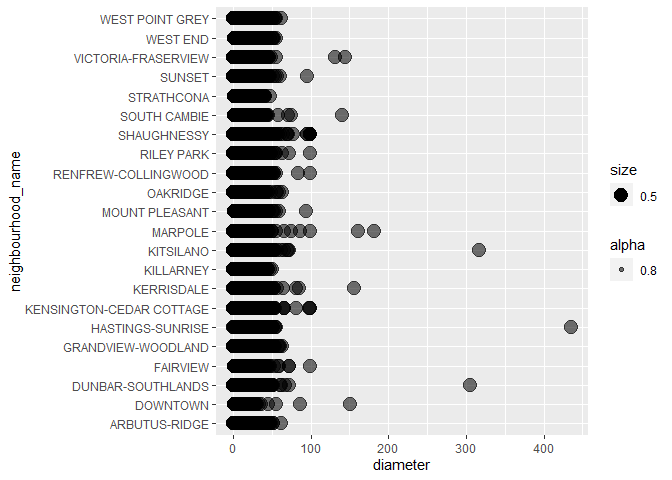
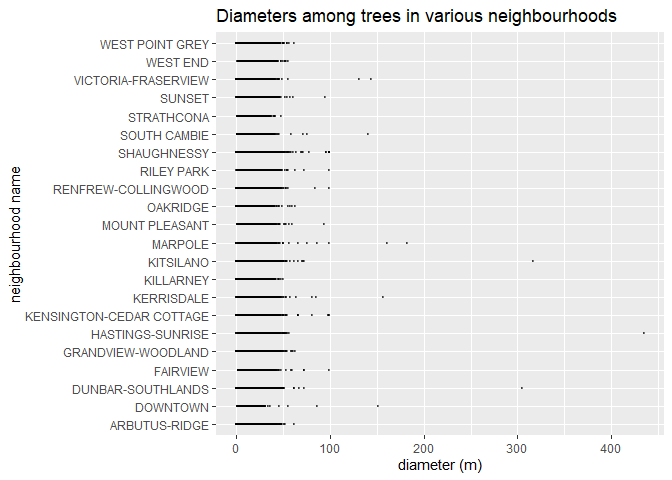
Final Edit

diff --git a/mda-nmhowes03.md b/mda-nmhowes03.md
@@ -211,7 +211,7 @@ typeof (vancouver_trees)
     ## [1] "list"
 
 ``` r
-# I now know the dataset is a list
+#I now know the dataset is a list
 ```
 
 ``` r
@@ -243,11 +243,11 @@ glimpse (vancouver_trees)
     ## $ latitude           <dbl> 49.21776, 49.21776, 49.23938, 49.23469, 49.23894, 4…
 
 ``` r
-#there are 146,611 rows and 20 columns
+#There are 146,611 rows and 20 columns
 ```
 
 ``` r
-#I want to know how many species there are
+#I want to know how many trees there are with a diameter above 5.00
 print (filter (vancouver_trees, diameter > 5.00))
 ```
 
@@ -272,7 +272,7 @@ print (filter (vancouver_trees, diameter > 5.00))
     ## #   latitude <dbl>
 
 ``` r
-#there are 95, 692 trees that have a diameter larger than 5.00
+#There are 95, 692 trees that have a diameter larger than 5.00
 ```
 
 \#exploring cancer_sample data set
@@ -296,7 +296,7 @@ typeof (cancer_sample)
     ## [1] "list"
 
 ``` r
-# I now know the dataset is a list
+#I now know the dataset is a list
 ```
 
 ``` r
@@ -340,11 +340,11 @@ glimpse (cancer_sample)
     ## $ fractal_dimension_worst <dbl> 0.11890, 0.08902, 0.08758, 0.17300, 0.07678, 0…
 
 ``` r
-#there are 569 rows and 32 columns```
+#There are 569 rows and 32 columns
 ```
 
 ``` r
-#I want to know how many patients have an area mean above 1000
+#I want to know how many patients have a tumor area mean above 1000
 print (filter (cancer_sample, area_mean > 1000))
 ```
 
@@ -370,7 +370,7 @@ print (filter (cancer_sample, area_mean > 1000))
     ## #   symmetry_se <dbl>, fractal_dimension_se <dbl>, radius_worst <dbl>, …
 
 ``` r
-#there are 92 patients with an area mean above 1000
+#There are 92 patients with a tumor area mean above 1000
 ```
 
 \#exploring building_permits data set
@@ -394,7 +394,7 @@ typeof (building_permits)
     ## [1] "list"
 
 ``` r
-# I now know the dataset is a list
+#I now know the dataset is a list
 ```
 
 ``` r
@@ -420,7 +420,7 @@ glimpse (building_permits)
     ## $ bi_id                       <dbl> 524, 535, 539, 541, 543, 546, 547, 548, 54…
 
 ``` r
-#there are 20,680 rows and 14 columns
+#There are 20,680 rows and 14 columns
 ```
 
 ``` r
@@ -448,7 +448,7 @@ print (filter (building_permits, year > 2017))
     ## #   year <dbl>, bi_id <dbl>
 
 ``` r
-#there are 13,946 building permits made after 2017
+#There are 13,946 building permits made after 2017
 ```
 
 \#exploring apt_buildings data set
@@ -472,7 +472,7 @@ typeof (apt_buildings)
     ## [1] "list"
 
 ``` r
-# I now know the dataset is a list
+#I now know the dataset is a list
 ```
 
 ``` r
@@ -521,7 +521,7 @@ glimpse (apt_buildings)
     ## $ no_barrier_free_accessible_units <dbl> 2, 0, 0, 42, 0, NA, 14, 0, 0, 1, 25, …
 
 ``` r
-#there are 3,455 rows and 37 columns
+#There are 3,455 rows and 37 columns
 ```
 
 ``` r
@@ -563,10 +563,11 @@ to choose this one? Briefly explain your choice below.
 <!-------------------------- Start your work below ---------------------------->
 
 \#I chose the Vancouver trees dataset, personally this dataset was the
-most interesting to me as I liked to investigate the species and
-dimentions of the trees. It was also be interesting to look at the
-relationships between the age and diameter, if it is located on the
-street and it’s height.
+most interesting to me as I would like to investigate the relationship
+between tree species, location and dimention of the trees. It was also
+be interesting to look at trees that I could potentially see in my
+neighborhood and if they could ge easy to spot based ont ehir location
+and size.
 
 <!----------------------------------------------------------------------------->
 
@@ -579,9 +580,10 @@ dataset. Note it down below.
 
 <!-------------------------- Start your work below ---------------------------->
 
-\#My end goal is looking at the relationship between the tree species in
+\#I would want to look at the relationship between the tree species in
 relation to the diameter, height range and where it can commonly be
-found to find some of the biggest and most common species in Vancouver.
+found to ultimately find the biggest and most common tree species in
+Kitsilano.
 
 # Important note
 
@@ -647,22 +649,38 @@ sufficient comments for a reader to understand your reasoning and code.
 
 <!-------------------------- Start your work below ---------------------------->
 
-\#First I wanted to “Plot the distribution of a numeric variable” for
-this task I want to look at diameter
+\#First I wanted to “Plot the distribution of a numeric variable (#1)”
+for this task I want to look at diameter and what the most common
+diameter is across all the trees.
 
 ``` r
-print (ggplot( vancouver_trees, aes(x = diameter)) + geom_histogram(binwidth=5.5))
+ggplot(vancouver_trees, aes(x = diameter)) + 
+  geom_histogram(binwidth=5.5) +
+  labs(title= "Tree Diameter", x = "diameter (m)", y = "number of trees") %>% 
+  print()
 ```
+
+    ## $x
+    ## [1] "diameter (m)"
+    ## 
+    ## $y
+    ## [1] "number of trees"
+    ## 
+    ## $title
+    ## [1] "Tree Diameter"
+    ## 
+    ## attr(,"class")
+    ## [1] "labels"
 
 ![](mda-nmhowes03_files/figure-gfm/unnamed-chunk-19-1.png)<!-- -->
 
 ``` r
-#this shows me that most of the diameters are under 50 with majority being around 10.So if I needed to cut some trees I could filter for diameters just under 25 as that is where I would find the majority of them. For this plot I used the diameter for the x axis to view the counts in a histogram.
+#This shows me that most of the diameters are under 50 with majority being around 10.So if I needed to cut some trees I could filter for diameters just under 25 as that is where I would find the majority of them. For this plot I used the diameter for the x axis to view the counts in a histogram using ggplot. 
 ```
 
 \#I also want to look at trees in my own neighbourhood to see what
 tree’s I could look at during an everyday walk (Filter observations in
-your data according to your own criteria)
+your data according to your own criteria \#5)
 
 ``` r
 print (filter (vancouver_trees, neighbourhood_name == "KITSILANO"))
@@ -689,43 +707,101 @@ print (filter (vancouver_trees, neighbourhood_name == "KITSILANO"))
     ## #   latitude <dbl>
 
 ``` r
-#this shows me that there are 8115 documented trees in the kitsilano neighbourhood that I can walk to and see as the filter function helped me cater my search to just trees near my house. 
+#This shows me that there are 8115 documented trees in the kitsilano neighbourhood that I can walk to and see as the filter function helped me cater my search to just trees near my house. 
+
+vancouver_trees %>%
+  group_by(neighbourhood_name = "KITSILANO") %>%
+    top_n(1, species_name)
+```
+
+    ## # A tibble: 1,613 × 20
+    ## # Groups:   neighbourhood_name [1]
+    ##    tree_id civic_number std_street       genus_name species_name cultivar_name
+    ##      <dbl>        <dbl> <chr>            <chr>      <chr>        <chr>        
+    ##  1  156588         2306 KITCHENER ST     MALUS      ZUMI         CALOCARPA    
+    ##  2  157159         4089 SELKIRK ST       MALUS      ZUMI         CALOCARPA    
+    ##  3  157816          515 SALSBURY DRIVE   MALUS      ZUMI         CALOCARPA    
+    ##  4  157818          520 SALSBURY DRIVE   MALUS      ZUMI         CALOCARPA    
+    ##  5  158748         1037 W KING EDWARD AV MALUS      ZUMI         CALOCARPA    
+    ##  6  158750         1063 W KING EDWARD AV MALUS      ZUMI         CALOCARPA    
+    ##  7  158751         4050 OSLER ST         MALUS      ZUMI         CALOCARPA    
+    ##  8  159644         3793 W 18TH AV        MALUS      ZUMI         CALOCARPA    
+    ##  9  159645         6049 DUNBAR ST        MALUS      ZUMI         CALOCARPA    
+    ## 10  159698         1808 E 2ND AV         MALUS      ZUMI         CALOCARPA    
+    ## # ℹ 1,603 more rows
+    ## # ℹ 14 more variables: common_name <chr>, assigned <chr>, root_barrier <chr>,
+    ## #   plant_area <chr>, on_street_block <dbl>, on_street <chr>,
+    ## #   neighbourhood_name <chr>, street_side_name <chr>, height_range_id <dbl>,
+    ## #   diameter <dbl>, curb <chr>, date_planted <date>, longitude <dbl>,
+    ## #   latitude <dbl>
+
+``` r
+#I also wanted to know the most common species located in Kitsilano so I used the top_n function and found the most common species to be "Zumi".
 ```
 
 \#I wanted to addtionally look at the relationship between 2 variables
 in a plot being the diameter and neighbourhood to get a sense of where
-the largest trees were
+the widest trees were (#4)
 
 ``` r
 ggplot(vancouver_trees, aes(x = diameter, y = neighbourhood_name)) +
-     geom_point(aes(size = 0.5, alpha = 0.8))
+     geom_point(size = 0.5, alpha = 0.5) +
+    labs(title= "Diameters among trees in various neighbourhoods", x = "diameter (m)", y = "neighbourhood name") %>% 
+  print()
 ```
+
+    ## $x
+    ## [1] "diameter (m)"
+    ## 
+    ## $y
+    ## [1] "neighbourhood name"
+    ## 
+    ## $title
+    ## [1] "Diameters among trees in various neighbourhoods"
+    ## 
+    ## attr(,"class")
+    ## [1] "labels"
 
 ![](mda-nmhowes03_files/figure-gfm/unnamed-chunk-21-1.png)<!-- -->
 
 ``` r
-#this shows me that among all the neighbourhoods the diameters of trees are relatively the same with the largest being in kitsilano, dunbar and hastings. 
+#This shows me that among all the neighbourhoods the diameters of trees are relatively the same with the largest being in kitsilano, dunbar and hastings.By creating a plot I can easily see that the outliar points indicating the largest trees are in the neighbourhoods previously listed. 
 ```
 
 \#I wanted to additionally look at the relationship between 2 variables
-in a plot being the diameter and species in Kitsilano
+in a plot (#4) being the diameter and species in Kitsilano and what
+species had the largest diameter.
 
 ``` r
 vancouver_trees %>%
-  filter(neighbourhood_name == "KITSILANO", diameter > 35.00 ) %>%
-  ggplot(aes(x = diameter, y = species_name)) +
-  geom_point()
+  filter(neighbourhood_name == "KITSILANO", diameter > 40.00 ) %>%
+  ggplot(aes(x = diameter, y = common_name)) +
+  geom_point() +
+  labs(title= "Diameters among trees in Kitsilano", x = "diameter (m)", y = "common tree name") %>% 
+  print()
 ```
+
+    ## $x
+    ## [1] "diameter (m)"
+    ## 
+    ## $y
+    ## [1] "common tree name"
+    ## 
+    ## $title
+    ## [1] "Diameters among trees in Kitsilano"
+    ## 
+    ## attr(,"class")
+    ## [1] "labels"
 
 ![](mda-nmhowes03_files/figure-gfm/unnamed-chunk-22-1.png)<!-- -->
 
 ``` r
-#this shows me the exact species that I can find in kitsilano that are large with a diameter above 35, this filter had to be added due to the abundant number of tree species so the graph labels could be read. 
+#This shows me the exact species that I can find in Kitsilano that are large with a diameter above 40, this plot also shows the largest tree species in diameter in Kitsilano being a Maple species. To build this plot I first filtered for the neighbourhood as the there are too many tree species in the dataset to show on a single graph, I also had to filter for a diameter above 40. I was then able to view diameters above 40 and tree species. 
 ```
 
 \#Lastly I wanted to look at the height of these trees to also see how
-large they were and if thet were on the curb so I would be able to see
-them easier.
+large they were and if they were located on the curb in a density plot
+(#8) so I would be able to see them easier.
 
 ``` r
 ggplot(vancouver_trees, aes(x = height_range_id, colour = curb)) +
@@ -735,32 +811,25 @@ ggplot(vancouver_trees, aes(x = height_range_id, colour = curb)) +
 ![](mda-nmhowes03_files/figure-gfm/unnamed-chunk-23-1.png)<!-- -->
 
 ``` r
-#this shows me most of the trees were in the 2 range meaning they were around 20-25 ft as they were in the 20-30 range and that the taller trees could be easily seen while walking as they were located on the curb!
+  labs(title= "Height range density plot", x = "height range", y = "density") %>% 
+  print()
 ```
+
+    ## $x
+    ## [1] "height range"
+    ## 
+    ## $y
+    ## [1] "density"
+    ## 
+    ## $title
+    ## [1] "Height range density plot"
+    ## 
+    ## attr(,"class")
+    ## [1] "labels"
 
 ``` r
-vancouver_trees
+#This shows me most of the trees were in the ID = 2 range meaning they were around 20-25 ft as they were in the 20-30 range and that the same trend is seen for trees both on and off the curb that the trees decrease in density the taller they get and most trees on the curb being around 20 ft. This was easily seen by making a density plot of the height range id and using colour the differentiate between trees located on and off the curb. 
 ```
-
-    ## # A tibble: 146,611 × 20
-    ##    tree_id civic_number std_street    genus_name species_name cultivar_name  
-    ##      <dbl>        <dbl> <chr>         <chr>      <chr>        <chr>          
-    ##  1  149556          494 W 58TH AV     ULMUS      AMERICANA    BRANDON        
-    ##  2  149563          450 W 58TH AV     ZELKOVA    SERRATA      <NA>           
-    ##  3  149579         4994 WINDSOR ST    STYRAX     JAPONICA     <NA>           
-    ##  4  149590          858 E 39TH AV     FRAXINUS   AMERICANA    AUTUMN APPLAUSE
-    ##  5  149604         5032 WINDSOR ST    ACER       CAMPESTRE    <NA>           
-    ##  6  149616          585 W 61ST AV     PYRUS      CALLERYANA   CHANTICLEER    
-    ##  7  149617         4909 SHERBROOKE ST ACER       PLATANOIDES  COLUMNARE      
-    ##  8  149618         4925 SHERBROOKE ST ACER       PLATANOIDES  COLUMNARE      
-    ##  9  149619         4969 SHERBROOKE ST ACER       PLATANOIDES  COLUMNARE      
-    ## 10  149625          720 E 39TH AV     FRAXINUS   AMERICANA    AUTUMN APPLAUSE
-    ## # ℹ 146,601 more rows
-    ## # ℹ 14 more variables: common_name <chr>, assigned <chr>, root_barrier <chr>,
-    ## #   plant_area <chr>, on_street_block <dbl>, on_street <chr>,
-    ## #   neighbourhood_name <chr>, street_side_name <chr>, height_range_id <dbl>,
-    ## #   diameter <dbl>, curb <chr>, date_planted <date>, longitude <dbl>,
-    ## #   latitude <dbl>
 
 # Task 3: Choose research questions
 
@@ -775,15 +844,14 @@ Write the 4 questions and any additional comments below.
 \#1: Are larger trees (diameter) in Kitsilano typically seen on the
 curb?
 
-\#2: What species in Kitsilano have the largest diameter and height?
+\#2: What tree species in Kitsilano have the largest diameter and
+height?
 
 \#3: Do most trees that are larger in diameter mean they are also
 taller?
 
 \#4: What neighborhood has the lowest amount of trees? What species is
 most common there?
-
-# 
 
 # Overall reproducibility/Cleanliness/Coherence Checklist
 
